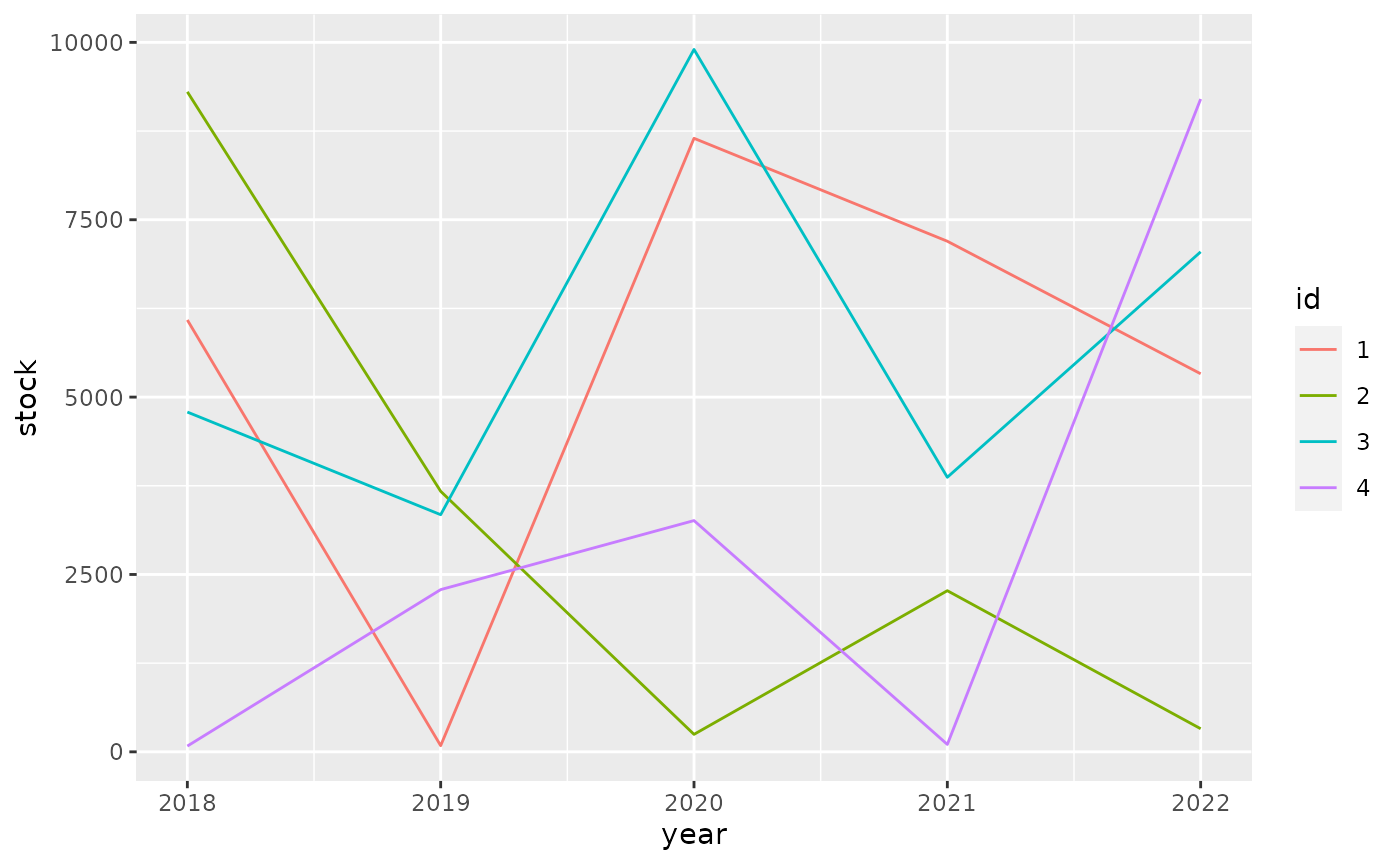
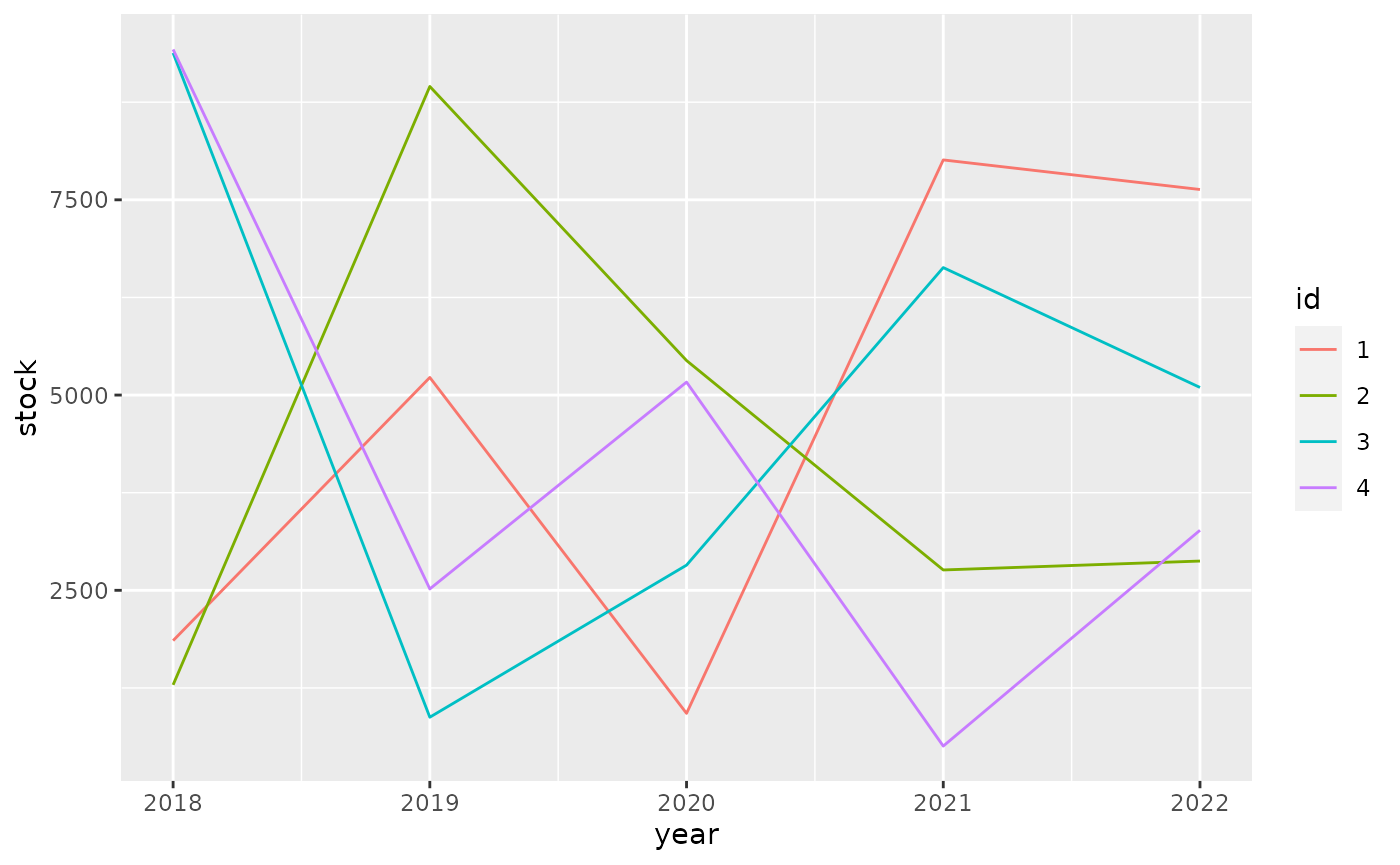
Built site for tibble: 3.1.4.9000@4e3f86e

diff --git a/dev/articles/formats.html b/dev/articles/formats.html
@@ -55,7 +55,7 @@
         <a class="navbar-brand" href="../index.html">tibble</a>
         <div class="info hidden-xs hidden-sm">
           <span class="partof">part of the <a href="https://tidyverse.org" class="external-link">tidyverse</a></span>
-          <span class="version version-danger" data-toggle="tooltip" data-placement="bottom" title="In-development version">3.1.3.9003</span>
+          <span class="version version-danger" data-toggle="tooltip" data-placement="bottom" title="In-development version">3.1.4.9000</span>
         </div>
       </div>
     </div>
@@ -227,10 +227,10 @@
 <span class="co">#&gt; # A tibble: 4 × 6</span>
 <span class="co">#&gt;   id       `2018`    `2019`    `2020`    `2021`    `2022`</span>
 <span class="co">#&gt;   &lt;fct&gt; &lt;dbl:fmt&gt; &lt;dbl:fmt&gt; &lt;dbl:fmt&gt; &lt;dbl:fmt&gt; &lt;dbl:fmt&gt;</span>
-<span class="co">#&gt; 1 1     $6,087.35    $87.09 $8,647.75 $7,196.90 $5,329.02</span>
-<span class="co">#&gt; 2 2     $9,302.98 $3,672.35   $246.45 $2,271.29   $325.69</span>
-<span class="co">#&gt; 3 3     $4,789.24 $3,342.63 $9,900.36 $3,870.04 $7,047.73</span>
-<span class="co">#&gt; 4 4        $81.15 $2,286.60 $3,259.67   $104.76 $9,201.62</span></code></pre></div>
+<span class="co">#&gt; 1 1     $1,855.77 $5,225.59   $924.48 $8,010.75 $7,631.98</span>
+<span class="co">#&gt; 2 2     $1,289.27 $8,951.39 $5,442.09 $2,760.67 $2,874.68</span>
+<span class="co">#&gt; 3 3     $9,380.73   $875.30 $2,822.32 $6,632.13 $5,097.57</span>
+<span class="co">#&gt; 4 4     $9,425.35 $2,517.89 $5,165.90   $505.56 $3,268.81</span></code></pre></div>
 <p>For ggplot2 we need to do <a href="https://github.com/tidyverse/ggplot2/pull/4065" class="external-link">some work</a> to show apply the formatting to the scales.</p>
 <div class="sourceCode" id="cb6"><pre class="downlit sourceCode r">
 <code class="sourceCode R"><span class="kw"><a href="https://rdrr.io/r/base/library.html" class="external-link">library</a></span><span class="op">(</span><span class="va"><a href="https://ggplot2.tidyverse.org" class="external-link">ggplot2</a></span><span class="op">)</span>
@@ -241,10 +241,10 @@
   <span class="fu"><a href="https://ggplot2.tidyverse.org/reference/geom_path.html" class="external-link">geom_line</a></span><span class="op">(</span><span class="op">)</span></code></pre></div>
 <p><img src="formats_files/figure-html/unnamed-chunk-7-1.png" width="700"></p>
 <p>It pays off to specify formatting very early in the process. The diagram below shows the principal stages of data analysis and exploration from “R for data science”.</p>
-<div id="htmlwidget-c627011356407721ac2f" style="width:700px;height:432.632880098888px;" class="DiagrammeR html-widget"></div>
-<script type="application/json" data-for="htmlwidget-c627011356407721ac2f">{"x":{"diagram":"graph TD\n  Import --> Tidy\n  Tidy --> Transform\n  Transform --> Visualize\n  Visualize --> Communicate\n  Visualize --> Model\n  Model -.-> Transform"},"evals":[],"jsHooks":[]}</script><p>The subsequent diagram adds data formats, communication options, and explicit data formatting. The original r4ds transitions are highlighted in bold. There are two principal options where to apply formatting for results: right before communicating them, or right after importing.</p>
-<div id="htmlwidget-7413e0d6ef4c757b1932" style="width:700px;height:432.632880098888px;" class="DiagrammeR html-widget"></div>
-<script type="application/json" data-for="htmlwidget-7413e0d6ef4c757b1932">{"x":{"diagram":"graph TD\n  .csv --> Import\n  API --> Import\n  DBI --> Import\n  dbplyr --> Import\n  Import -.-> Format[Format for analysis]\n  Format -.-> Tidy\n\n  subgraph r4ds\n  Import ==> Tidy\n  Tidy ==> Transform\n  Transform ==> Visualize\n  Visualize ==> Model\n  Model -.-> Transform\n  Visualize ==> Communicate\n  end\n\n  Visualize -.-> FormatComm[Format for communication]\n  FormatComm -.-> Communicate\n\n  FormatComm -- Apply formatting early --> Format\n\n  dbplyr -.-> Tidy\n  dbplyr -.-> Transform\n  dbplyr -.-> Visualize\n\n  Communicate --> gt\n  Communicate --> ggplot2\n  Communicate --> DT\n  Communicate --> plotly"},"evals":[],"jsHooks":[]}</script><p>Applying formatting early in the process gives the added benefit of showing the data in a useful format during the “Tidy”, “Transform”, and “Visualize” stages. For this to be useful, we need to ensure that the formatting options applied early:</p>
+<div id="htmlwidget-4efb5cfdd134e7d975d4" style="width:700px;height:432.632880098888px;" class="DiagrammeR html-widget"></div>
+<script type="application/json" data-for="htmlwidget-4efb5cfdd134e7d975d4">{"x":{"diagram":"graph TD\n  Import --> Tidy\n  Tidy --> Transform\n  Transform --> Visualize\n  Visualize --> Communicate\n  Visualize --> Model\n  Model -.-> Transform"},"evals":[],"jsHooks":[]}</script><p>The subsequent diagram adds data formats, communication options, and explicit data formatting. The original r4ds transitions are highlighted in bold. There are two principal options where to apply formatting for results: right before communicating them, or right after importing.</p>
+<div id="htmlwidget-2cf25d3ed40713ee6aa9" style="width:700px;height:432.632880098888px;" class="DiagrammeR html-widget"></div>
+<script type="application/json" data-for="htmlwidget-2cf25d3ed40713ee6aa9">{"x":{"diagram":"graph TD\n  .csv --> Import\n  API --> Import\n  DBI --> Import\n  dbplyr --> Import\n  Import -.-> Format[Format for analysis]\n  Format -.-> Tidy\n\n  subgraph r4ds\n  Import ==> Tidy\n  Tidy ==> Transform\n  Transform ==> Visualize\n  Visualize ==> Model\n  Model -.-> Transform\n  Visualize ==> Communicate\n  end\n\n  Visualize -.-> FormatComm[Format for communication]\n  FormatComm -.-> Communicate\n\n  FormatComm -- Apply formatting early --> Format\n\n  dbplyr -.-> Tidy\n  dbplyr -.-> Transform\n  dbplyr -.-> Visualize\n\n  Communicate --> gt\n  Communicate --> ggplot2\n  Communicate --> DT\n  Communicate --> plotly"},"evals":[],"jsHooks":[]}</script><p>Applying formatting early in the process gives the added benefit of showing the data in a useful format during the “Tidy”, “Transform”, and “Visualize” stages. For this to be useful, we need to ensure that the formatting options applied early:</p>
 <ul>
 <li>give a good user experience for analysis
 <ul>

diff --git a/dev/news/index.html b/dev/news/index.html
@@ -106,7 +106,7 @@
         <a class="navbar-brand" href="../index.html">tibble</a>
         <div class="info hidden-xs hidden-sm">
           <span class="partof">part of the <a href="https://tidyverse.org">tidyverse</a></span>
-          <span class="version version-danger" data-toggle="tooltip" data-placement="bottom" title="In-development version">3.1.3.9003</span>
+          <span class="version version-danger" data-toggle="tooltip" data-placement="bottom" title="In-development version">3.1.4.9000</span>
         </div>
       </div>
     </div>
@@ -199,6 +199,16 @@
       <small>Source: <a href='https://github.com/tidyverse/tibble/blob/master/NEWS.md'><code>NEWS.md</code></a></small>
     </div>
 
+    <div id="tibble-3149000" class="section level1">
+<h1 class="page-header" data-toc-text="3.1.4.9000">
+<a href="#tibble-3149000" class="anchor" aria-hidden="true"></a>tibble 3.1.4.9000<small> Unreleased </small></h1>
+<ul><li>Same as previous version.</li>
+</ul></div>
+    <div id="tibble-314" class="section level1">
+<h1 class="page-header" data-toc-text="3.1.4">
+<a href="#tibble-314" class="anchor" aria-hidden="true"></a>tibble 3.1.4<small> Unreleased </small></h1>
+<ul><li>Same as previous version.</li>
+</ul></div>
     <div id="tibble-3139003" class="section level1">
 <h1 class="page-header" data-toc-text="3.1.3.9003">
 <a href="#tibble-3139003" class="anchor" aria-hidden="true"></a>tibble 3.1.3.9003<small> Unreleased </small></h1>

diff --git a/dev/articles/types.html b/dev/articles/types.html
@@ -55,7 +55,7 @@
         <a class="navbar-brand" href="../index.html">tibble</a>
         <div class="info hidden-xs hidden-sm">
           <span class="partof">part of the <a href="https://tidyverse.org" class="external-link">tidyverse</a></span>
-          <span class="version version-danger" data-toggle="tooltip" data-placement="bottom" title="In-development version">3.1.3.9003</span>
+          <span class="version version-danger" data-toggle="tooltip" data-placement="bottom" title="In-development version">3.1.4.9000</span>
         </div>
       </div>
     </div>
@@ -358,7 +358,7 @@
 #&gt; $ factor        &lt;fct&gt; A
 #&gt; $ ordered       &lt;ord&gt; a
 #&gt; $ Date          &lt;date&gt; 2021-08-07
-#&gt; $ POSIXt        &lt;dttm&gt; 2021-08-07 12:42:08
+#&gt; $ POSIXt        &lt;dttm&gt; 2021-08-07 12:51:32
 #&gt; $ difftime      &lt;drtn&gt; 1 secs
 #&gt; $ hms           &lt;time&gt; 00:00:01
 #&gt; $ integer64     &lt;int64&gt; 10000000000
@@ -394,7 +394,7 @@
 <span class="co">#&gt;             "sym"</span>
 <span class="co">#&gt;         }, typeof(x))</span>
 <span class="co">#&gt; }</span>
-<span class="co">#&gt; &lt;bytecode: 0x559ba5040600&gt;</span>
+<span class="co">#&gt; &lt;bytecode: 0x55a67374cb18&gt;</span>
 <span class="co">#&gt; &lt;environment: namespace:pillar&gt;</span></code></pre></div>
 </div>
   </div>

diff --git a/dev/reference/formatting.html b/dev/reference/formatting.html
@@ -126,7 +126,7 @@ and pillar::pillar_options for options that control the display in the console."
         <a class="navbar-brand" href="../index.html">tibble</a>
         <div class="info hidden-xs hidden-sm">
           <span class="partof">part of the <a href="https://tidyverse.org">tidyverse</a></span>
-          <span class="version version-danger" data-toggle="tooltip" data-placement="bottom" title="In-development version">3.1.3.9003</span>
+          <span class="version version-danger" data-toggle="tooltip" data-placement="bottom" title="In-development version">3.1.4.9000</span>
         </div>
       </div>
     </div>

diff --git a/dev/reference/trunc_mat.html b/dev/reference/trunc_mat.html
@@ -112,7 +112,7 @@ See vignette(&quot;extending&quot;, package = &quot;pillar&quot;) for details." 
         <a class="navbar-brand" href="../index.html">tibble</a>
         <div class="info hidden-xs hidden-sm">
           <span class="partof">part of the <a href="https://tidyverse.org">tidyverse</a></span>
-          <span class="version version-danger" data-toggle="tooltip" data-placement="bottom" title="In-development version">3.1.3.9003</span>
+          <span class="version version-danger" data-toggle="tooltip" data-placement="bottom" title="In-development version">3.1.4.9000</span>
         </div>
       </div>
     </div>

diff --git a/dev/reference/name-repair-superseded.html b/dev/reference/name-repair-superseded.html
@@ -113,7 +113,7 @@ See vctrs::vec_as_names() for the implementation of the underlying logic." />
         <a class="navbar-brand" href="../index.html">tibble</a>
         <div class="info hidden-xs hidden-sm">
           <span class="partof">part of the <a href="https://tidyverse.org">tidyverse</a></span>
-          <span class="version version-danger" data-toggle="tooltip" data-placement="bottom" title="In-development version">3.1.3.9003</span>
+          <span class="version version-danger" data-toggle="tooltip" data-placement="bottom" title="In-development version">3.1.4.9000</span>
         </div>
       </div>
     </div>

diff --git a/dev/reference/tribble.html b/dev/reference/tribble.html
@@ -109,7 +109,7 @@ important.  Please see tibble-package for a general introduction." />
         <a class="navbar-brand" href="../index.html">tibble</a>
         <div class="info hidden-xs hidden-sm">
           <span class="partof">part of the <a href="https://tidyverse.org">tidyverse</a></span>
-          <span class="version version-danger" data-toggle="tooltip" data-placement="bottom" title="In-development version">3.1.3.9003</span>
+          <span class="version version-danger" data-toggle="tooltip" data-placement="bottom" title="In-development version">3.1.4.9000</span>
         </div>
       </div>
     </div>

diff --git a/dev/reference/enframe.html b/dev/reference/enframe.html
@@ -113,7 +113,7 @@ If the input has only one column, an unnamed vector is returned." />
         <a class="navbar-brand" href="../index.html">tibble</a>
         <div class="info hidden-xs hidden-sm">
           <span class="partof">part of the <a href="https://tidyverse.org">tidyverse</a></span>
-          <span class="version version-danger" data-toggle="tooltip" data-placement="bottom" title="In-development version">3.1.3.9003</span>
+          <span class="version version-danger" data-toggle="tooltip" data-placement="bottom" title="In-development version">3.1.4.9000</span>
         </div>
       </div>
     </div>

diff --git a/dev/reference/subsetting.html b/dev/reference/subsetting.html
@@ -126,7 +126,7 @@ data frame behavior, coerce to a data frame via as.data.frame()." />
         <a class="navbar-brand" href="../index.html">tibble</a>
         <div class="info hidden-xs hidden-sm">
           <span class="partof">part of the <a href="https://tidyverse.org">tidyverse</a></span>
-          <span class="version version-danger" data-toggle="tooltip" data-placement="bottom" title="In-development version">3.1.3.9003</span>
+          <span class="version version-danger" data-toggle="tooltip" data-placement="bottom" title="In-development version">3.1.4.9000</span>
         </div>
       </div>
     </div>

diff --git a/dev/reference/is_tibble.html b/dev/reference/is_tibble.html
@@ -108,7 +108,7 @@ and FALSE for all other objects, including regular data frames." />
         <a class="navbar-brand" href="../index.html">tibble</a>
         <div class="info hidden-xs hidden-sm">
           <span class="partof">part of the <a href="https://tidyverse.org">tidyverse</a></span>
-          <span class="version version-danger" data-toggle="tooltip" data-placement="bottom" title="In-development version">3.1.3.9003</span>
+          <span class="version version-danger" data-toggle="tooltip" data-placement="bottom" title="In-development version">3.1.4.9000</span>
         </div>
       </div>
     </div>

diff --git a/dev/reference/as_tibble.html b/dev/reference/as_tibble.html
@@ -122,7 +122,7 @@ as_tibble_col() converts a vector to a tibble with one column." />
         <a class="navbar-brand" href="../index.html">tibble</a>
         <div class="info hidden-xs hidden-sm">
           <span class="partof">part of the <a href="https://tidyverse.org">tidyverse</a></span>
-          <span class="version version-danger" data-toggle="tooltip" data-placement="bottom" title="In-development version">3.1.3.9003</span>
+          <span class="version version-danger" data-toggle="tooltip" data-placement="bottom" title="In-development version">3.1.4.9000</span>
         </div>
       </div>
     </div>

diff --git a/dev/reference/view.html b/dev/reference/view.html
@@ -112,7 +112,7 @@ This function has no effect in noninteractive sessions." />
         <a class="navbar-brand" href="../index.html">tibble</a>
         <div class="info hidden-xs hidden-sm">
           <span class="partof">part of the <a href="https://tidyverse.org">tidyverse</a></span>
-          <span class="version version-danger" data-toggle="tooltip" data-placement="bottom" title="In-development version">3.1.3.9003</span>
+          <span class="version version-danger" data-toggle="tooltip" data-placement="bottom" title="In-development version">3.1.4.9000</span>
         </div>
       </div>
     </div>
